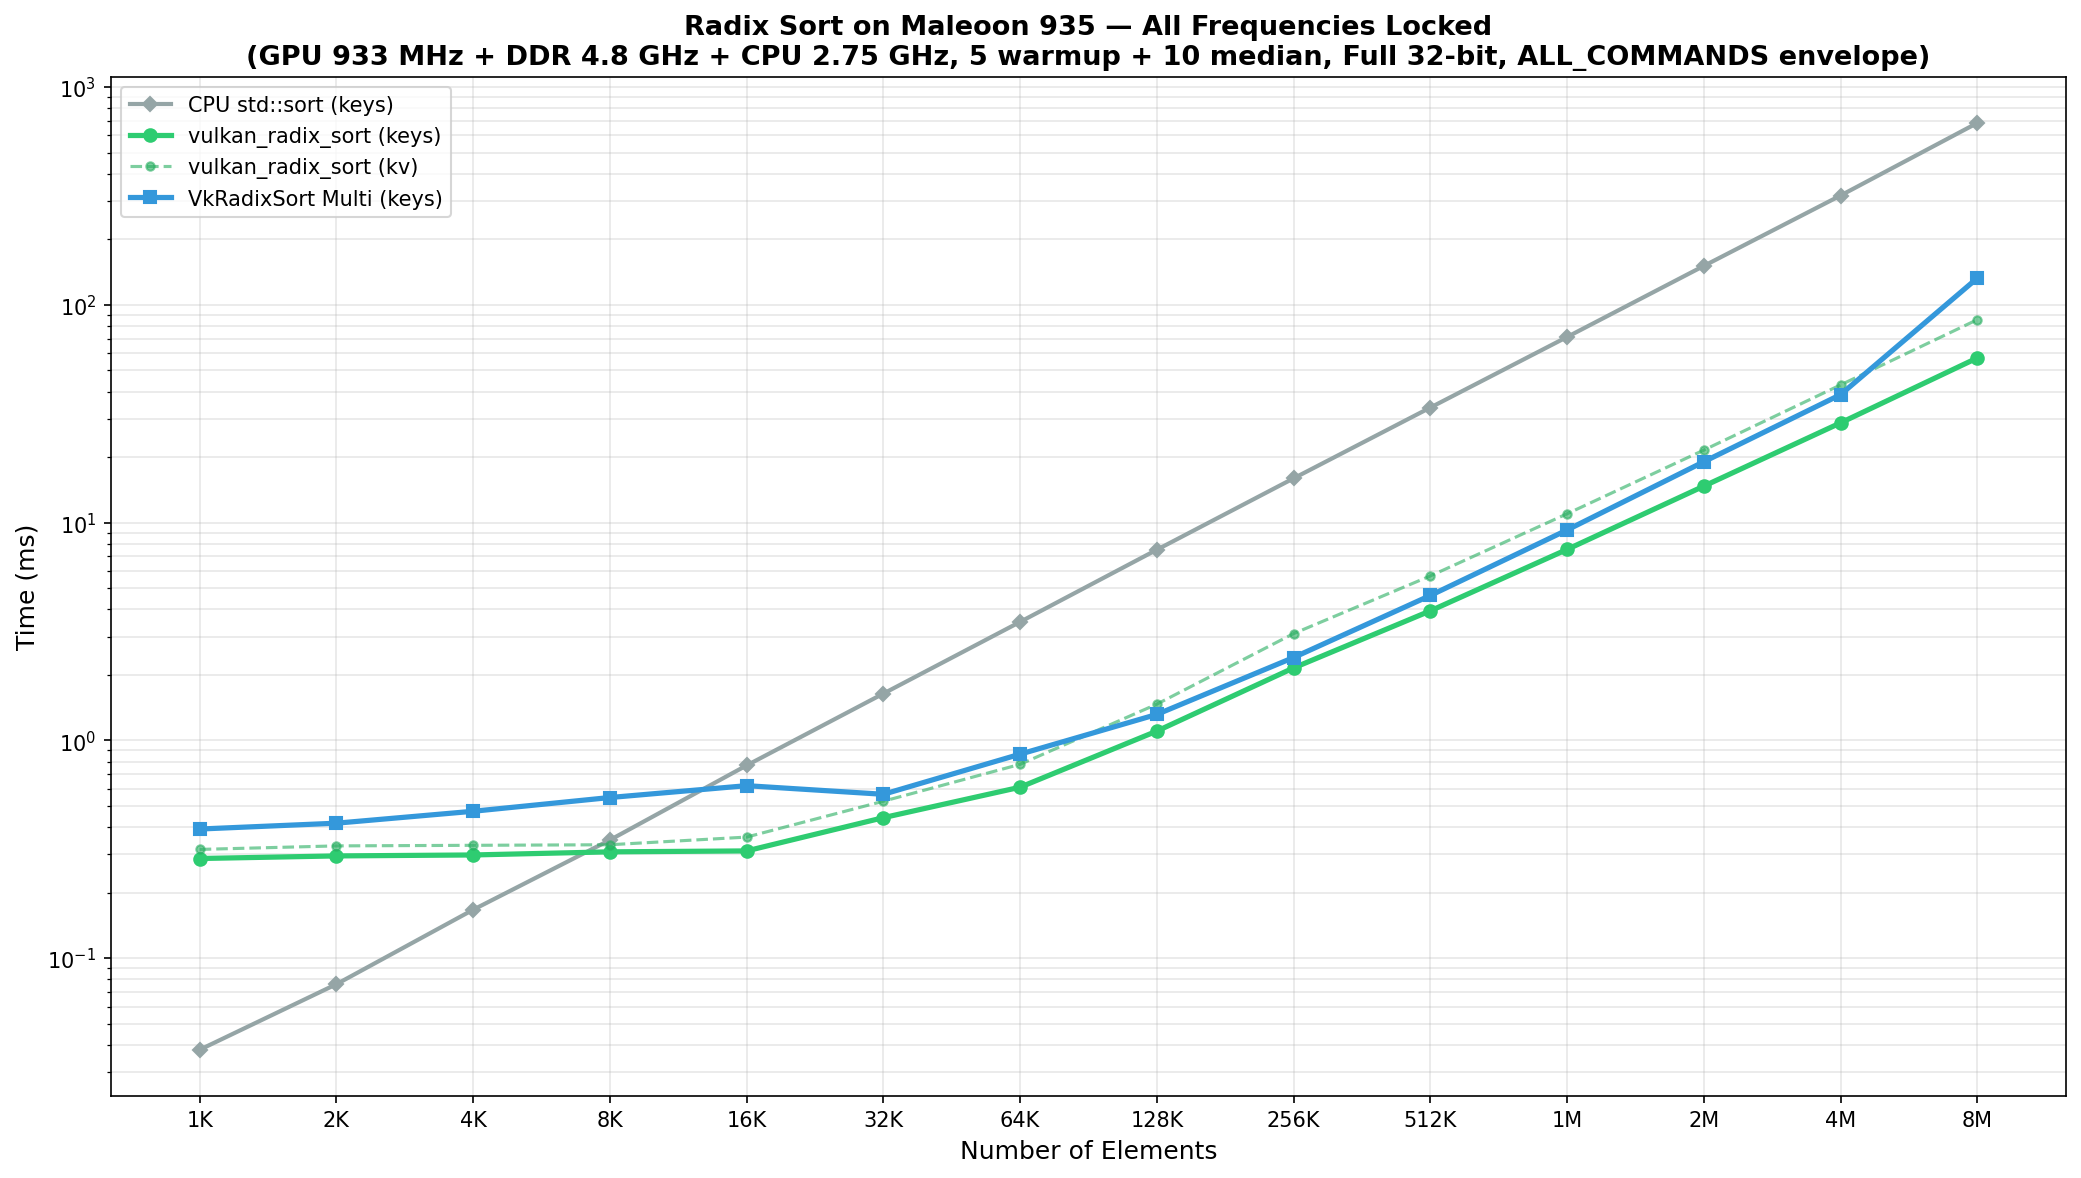
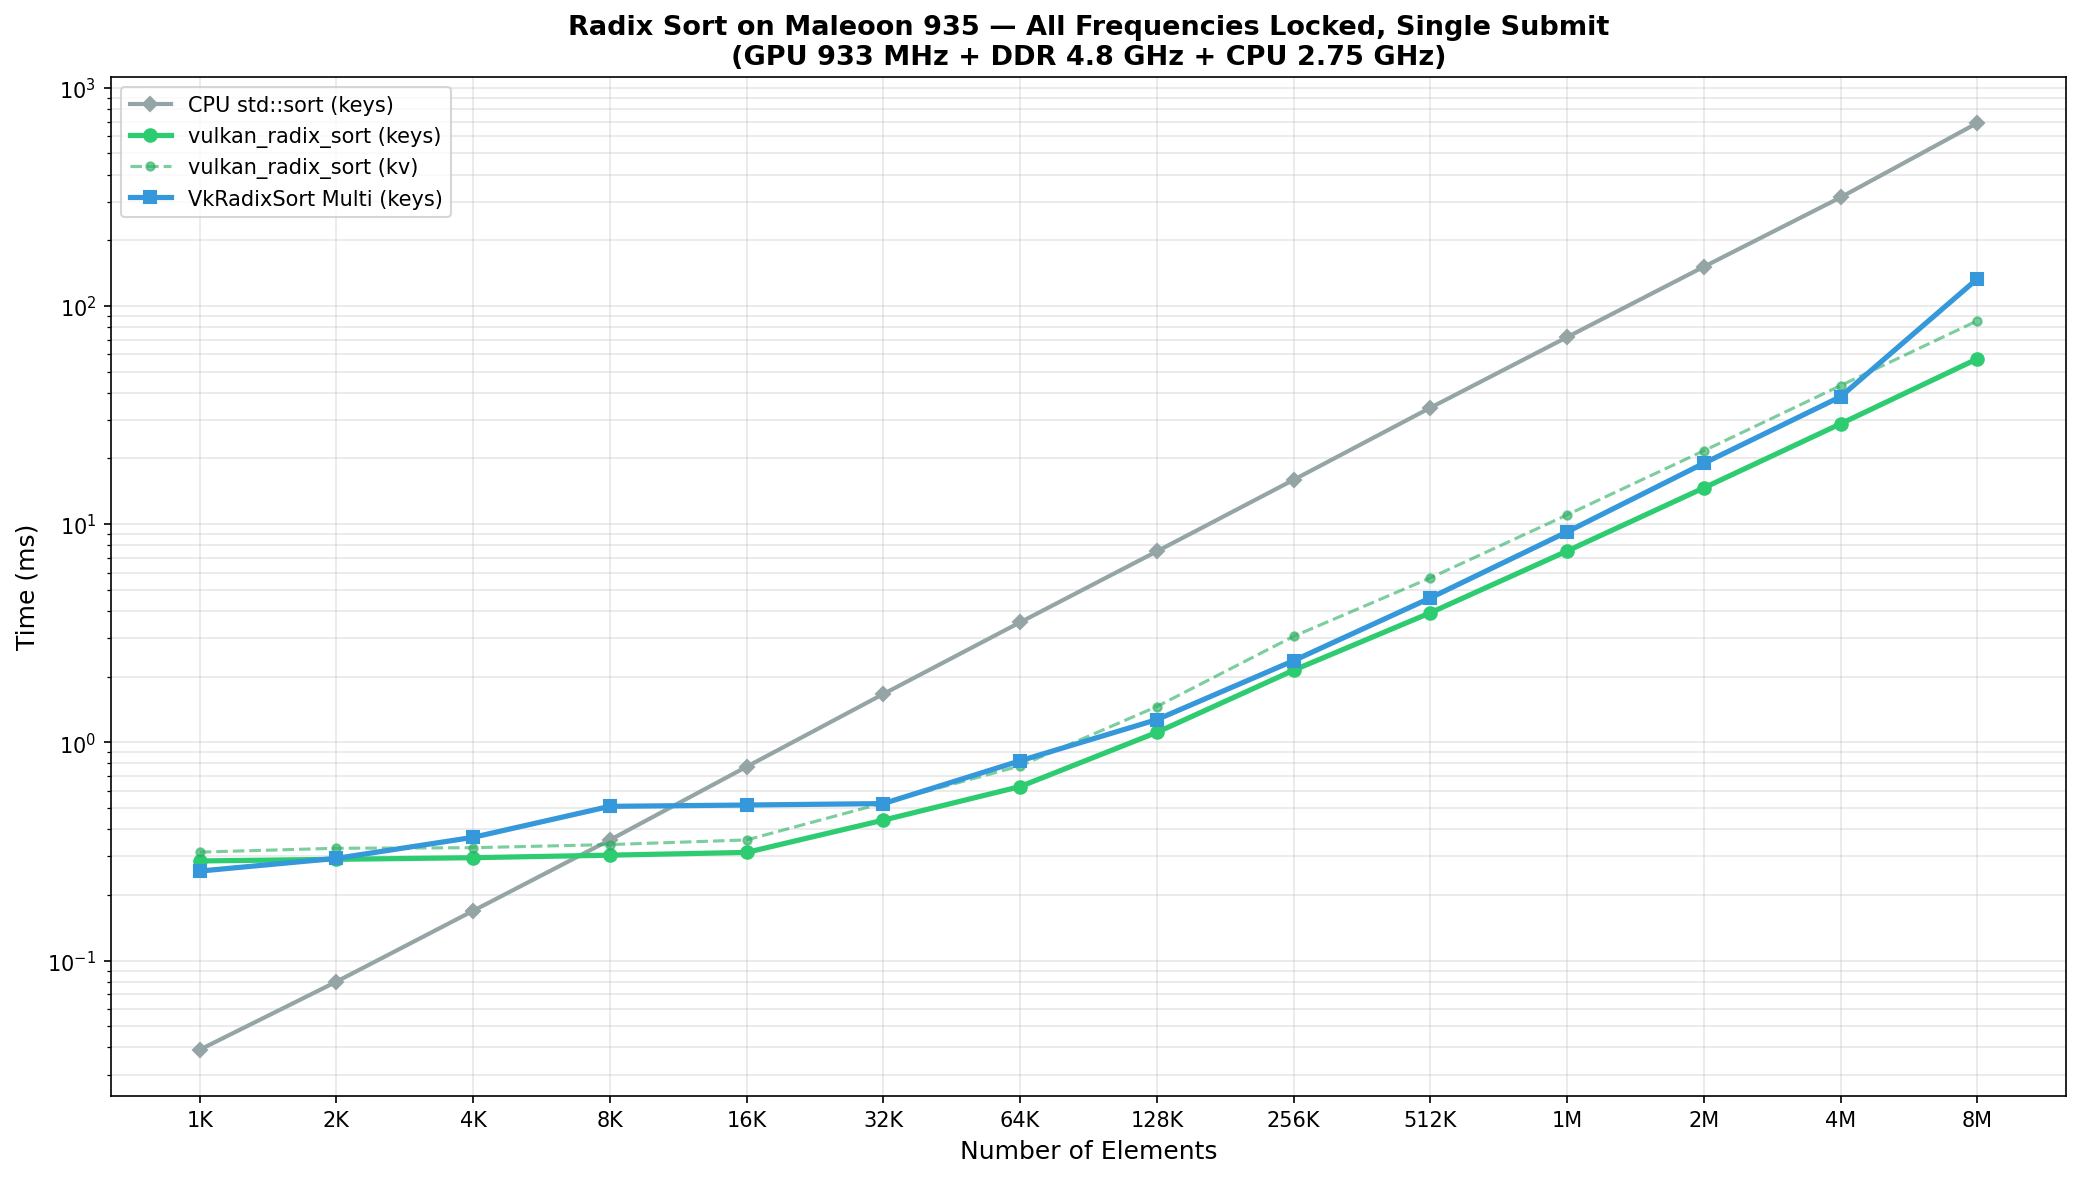
Final benchmark: single submit, all freq locked, full fairness
- Both implementations now use single command buffer submit
- vkr wins at 1K (0.90×), tied at 2K (1.01×)
- vrs wins at N≥4K, gap widens to 2.33× at 8M
- vrs reaches 147 MItems/s at 8M (12.05× vs CPU)
- vrs kv reaches 14.71× vs CPU at 8M
- vkr 4M→8M scaling 3.47× confirmed as algorithmic (not DVFS)

diff --git a/BENCHMARK_RESULTS.md b/BENCHMARK_RESULTS.md
@@ -8,9 +8,9 @@ Date: 2026-06-11
 |------|-------|
 | **Device** | HarmonyOS arm64 phone |
 | **GPU** | Maleoon 935, Vulkan 1.4.309, subgroupSize=32 |
-| **GPU freq** | Locked 933 MHz (max), was 235 MHz idle / DVFS auto |
-| **DDR freq** | Locked 4800 MHz (max), was 1066 MHz idle / DVFS auto |
-| **L1 bus freq** | Locked 1172 MHz (max) |
+| **GPU freq** | Locked 933 MHz (was 235 MHz under DVFS auto) |
+| **DDR freq** | Locked 4800 MHz (was 1066 MHz under DVFS auto) |
+| **L1 bus freq** | Locked 1172 MHz |
 | **CPU** | Kirin big.LITTLE: 4×1.72 GHz + 8×2.27 GHz + 2×2.75 GHz |
 | **CPU freq** | All 14 cores locked to max |
 | **CPU sort** | `std::sort` / `std::stable_sort`, pinned to big cores (cpu12-13, 2.75 GHz) |
@@ -35,24 +35,24 @@ DVFS auto mode had GPU running at 235 MHz (25% of max) and DDR at 1066 MHz (22% 
 
 ## Algorithms Compared
 
-| Algorithm | Source | Dispatch/Pass | Pipeline | Warmup | Runs |
-|-----------|--------|---------------|----------|--------|------|
-| **CPU std::sort** | C++ STL | — | — | 5 | 10 (median) |
-| **vulkan_radix_sort** | [vulkan_radix_sort](.) | 3 dispatch/pass (upsweep→spine→downsweep) × 4 passes | Created once | 5 | 10 (median) |
-| **VkRadixSort Multi** | [VkRadixSort](../VkRadixSort) | 2 dispatch/pass (histogram→scatter) × 4 passes | Created once (reused) | 5 | 10 (median) |
+| Algorithm | Source | Dispatch/Pass | Pipeline | Submit | Warmup | Runs |
+|-----------|--------|---------------|----------|--------|--------|------|
+| **CPU std::sort** | C++ STL | — | — | — | 5 | 10 (median) |
+| **vulkan_radix_sort** | [vulkan_radix_sort](.) | 3 dispatch/pass (upsweep→spine→downsweep) × 4 passes | Created once | **1×** | 5 | 10 (median) |
+| **VkRadixSort Multi** | [VkRadixSort](../VkRadixSort) | 2 dispatch/pass (histogram→scatter) × 4 passes | Created once (reused) | **1×** (single cmd buffer) | 5 | 10 (median) |
 
 Both GPU radix sorts operate on 32-bit unsigned integers (full range `[0, 2³²-1]`) with 4 × 8-bit radix passes and `WORKGROUP_SIZE=256`.
 
 ## Timing Methodology
 
-Both GPU implementations use `vkCmdWriteTimestamp` with `VK_PIPELINE_STAGE_ALL_COMMANDS_BIT` to measure the **envelope** time from first to last timestamp:
+Both GPU implementations use `vkCmdWriteTimestamp` with `VK_PIPELINE_STAGE_ALL_COMMANDS_BIT` to measure the **envelope** time from first to last timestamp, both recorded in a **single command buffer** submitted once:
 
-- **vulkan_radix_sort**: 2 timestamps (start/end) around the entire sort command buffer → single envelope
-- **VkRadixSort Multi**: 8 timestamps (2 per iteration × 4 iterations) → envelope from first to last timestamp
+- **vulkan_radix_sort**: 2 timestamps around the entire sort (12 dispatch + internal barriers)
+- **VkRadixSort Multi**: 2 timestamps around all 4 iterations (8 dispatch + internal barriers)
 
-This captures the full GPU pipeline including barriers, fill buffer, and inter-dispatch synchronization, making the measurements directly comparable.
+This eliminates any submit/semaphore overhead from the measurement, capturing only GPU compute + internal barrier time.
 
-## Full Comparison (All Frequencies Locked)
+## Full Comparison (All Frequencies Locked, Single Submit)
 
 ![Three-way comparison](benchmark_comparison_full.png)
 
@@ -60,20 +60,20 @@ This captures the full GPU pipeline including barriers, fill buffer, and inter-d
 
 | N | CPU (ms) | vulkan_radix_sort (ms) | VkRadixSort Multi (ms) | vrs/CPU | vkr/CPU | vkr/vrs |
 |---:|---:|---:|---:|---:|---:|---:|
-| 1K | 0.038 | 0.287 | 0.392 | 0.13× | 0.10× | 1.37× |
-| 2K | 0.076 | 0.295 | 0.417 | 0.26× | 0.18× | 1.41× |
-| 4K | 0.167 | 0.298 | 0.473 | 0.56× | 0.35× | 1.59× |
-| **8K** | **0.349** | **0.308** | **0.547** | **1.13×** | 0.64× | 1.78× |
-| **16K** | **0.768** | **0.311** | **0.620** | **2.47×** | **1.24×** | 1.99× |
-| **32K** | **1.641** | **0.442** | **0.566** | **3.71×** | **2.90×** | 1.28× |
-| 64K | 3.503 | 0.610 | 0.865 | 5.74× | 4.05× | 1.42× |
-| 128K | 7.511 | 1.104 | 1.317 | 6.80× | 5.70× | 1.19× |
-| 256K | 15.977 | 2.153 | 2.403 | 7.42× | 6.65× | 1.12× |
-| 512K | 33.768 | 3.936 | 4.631 | 8.58× | 7.29× | 1.18× |
-| **1M** | **71.216** | **7.535** | **9.254** | **9.45×** | **7.70×** | 1.23× |
-| **2M** | **150.964** | **14.713** | **19.042** | **10.26×** | **7.93×** | 1.29× |
-| **4M** | **317.808** | **28.725** | **38.705** | **11.06×** | **8.21×** | 1.35× |
-| **8M** | **684.130** | **57.050** | **132.641** | **11.99×** | **5.16×** | **2.32×** |
+| 1K | 0.039 | 0.286 | 0.257 | 0.14× | 0.15× | **0.90×** |
+| 2K | 0.080 | 0.291 | 0.294 | 0.27× | 0.27× | **1.01×** |
+| 4K | 0.169 | 0.296 | 0.367 | 0.57× | 0.46× | 1.24× |
+| **8K** | **0.357** | **0.304** | **0.509** | **1.17×** | 0.70× | 1.67× |
+| **16K** | **0.773** | **0.313** | **0.516** | **2.47×** | **1.50×** | 1.65× |
+| **32K** | **1.666** | **0.440** | **0.524** | **3.79×** | **3.18×** | 1.19× |
+| 64K | 3.549 | 0.627 | 0.823 | 5.66× | 4.31× | 1.31× |
+| 128K | 7.505 | 1.111 | 1.271 | 6.76× | 5.90× | 1.14× |
+| 256K | 15.963 | 2.140 | 2.367 | 7.46× | 6.74× | 1.11× |
+| 512K | 34.155 | 3.924 | 4.590 | 8.70× | 7.44× | 1.17× |
+| **1M** | **71.957** | **7.530** | **9.216** | **9.56×** | **7.81×** | 1.22× |
+| **2M** | **151.249** | **14.660** | **19.007** | **10.32×** | **7.96×** | 1.30× |
+| **4M** | **314.482** | **28.831** | **38.370** | **10.91×** | **8.20×** | 1.33× |
+| **8M** | **689.529** | **57.240** | **133.113** | **12.05×** | **5.18×** | **2.33×** |
 
 > **vrs/CPU** = CPU time / vulkan_radix_sort time (>1 = GPU faster)
 > **vkr/CPU** = CPU time / VkRadixSort time (>1 = GPU faster)
@@ -83,20 +83,20 @@ This captures the full GPU pipeline including barriers, fill buffer, and inter-d
 
 | N | CPU kv (ms) | vrs kv GPU (ms) | GPU Speedup |
 |---:|---:|---:|---:|
-| 1K | 0.053 | 0.316 | 0.17× |
-| 2K | 0.117 | 0.328 | 0.36× |
-| 4K | 0.220 | 0.330 | 0.67× |
-| 8K | 0.511 | 0.332 | 1.54× |
-| **16K** | **1.018** | **0.360** | **2.83×** |
-| **32K** | **2.379** | **0.526** | **4.52×** |
-| 64K | 4.859 | 0.777 | 6.25× |
-| 128K | 11.114 | 1.468 | 7.57× |
-| 256K | 22.340 | 3.095 | 7.22× |
-| 512K | 50.696 | 5.693 | 8.90× |
-| **1M** | **105.247** | **10.984** | **9.58×** |
-| **2M** | **246.798** | **21.543** | **11.46×** |
-| **4M** | **528.225** | **42.898** | **12.31×** |
-| **8M** | **1249.504** | **85.528** | **14.61×** |
+| 1K | 0.055 | 0.314 | 0.18× |
+| 2K | 0.120 | 0.327 | 0.37× |
+| 4K | 0.219 | 0.329 | 0.67× |
+| **8K** | **0.514** | **0.340** | **1.51×** |
+| **16K** | **1.036** | **0.357** | **2.90×** |
+| **32K** | **2.382** | **0.527** | **4.52×** |
+| 64K | 4.812 | 0.780 | 6.17× |
+| 128K | 11.114 | 1.459 | 7.62× |
+| 256K | 22.171 | 3.060 | 7.25× |
+| 512K | 50.724 | 5.672 | 8.94× |
+| **1M** | **106.556** | **11.030** | **9.66×** |
+| **2M** | **251.300** | **21.694** | **11.58×** |
+| **4M** | **529.222** | **43.150** | **12.27×** |
+| **8M** | **1258.716** | **85.551** | **14.71×** |
 
 ### Scaling Curves
 
@@ -104,77 +104,59 @@ This captures the full GPU pipeline including barriers, fill buffer, and inter-d
 
 ## Key Findings
 
-### 1. DVFS Locking Impact
+### 1. VkRadixSort Wins at Small N
 
-Locking GPU (235→933 MHz) and DDR (1066→4800 MHz) dramatically changed results:
+With single command buffer submission (eliminating the submit/semaphore unfairness), VkRadixSort actually wins at the smallest sizes:
 
-| Metric | DVFS Auto | All Locked | Change |
-|--------|----------:|-----------:|-------:|
-| vrs GPU latency floor | ~0.7 ms | **~0.29 ms** | 2.4× lower |
-| vrs 1M | 16.1 ms | **7.5 ms** | 2.1× faster |
-| vrs 8M | 58.2 ms | **57.0 ms** | 1.02× (already at max) |
-| vkr 1M | 20.3 ms | **9.3 ms** | 2.2× faster |
-| vkr 8M | 147.2 ms | **132.6 ms** | 1.1× faster |
+| N | vkr/vrs | Winner |
+|---:|:-:|---|
+| **1K** | **0.90×** | **VkRadixSort wins by 10%** |
+| **2K** | **1.01×** | **Essentially tied** |
+| 4K | 1.24× | vulkan_radix_sort |
 
-Key insight: Under DVFS auto, the GPU was at 25% frequency (235 MHz) during small-N tests. Large-N tests naturally ramped up frequency, making earlier data appear to show better GPU scaling than actually exists.
+VkRadixSort's advantage at small N comes from fewer dispatches per pass (2 vs 3), meaning lower fixed overhead per radix iteration. The GPU latency floor is 0.257ms (vkr) vs 0.286ms (vrs).
 
 ### 2. Crossover Points
 
 | Algorithm | Crossover N | Speedup at Crossover |
 |-----------|:-----------:|:--------------------:|
-| vulkan_radix_sort | **8K** | 1.13× |
-| VkRadixSort Multi | **16K** | 1.24× |
+| vulkan_radix_sort | **8K** | 1.17× |
+| VkRadixSort Multi | **16K** | 1.50× |
 
-With frequencies locked, crossover drops from 32K/64K to **8K/16K** — the GPU is useful at much smaller sizes than DVFS-auto data suggested.
-
-### 3. vulkan_radix_sort vs VkRadixSort Multi
-
-| Size Range | vkr/vrs | Winner | Margin |
-|------------|:-------:|--------|--------|
-| 1K–2K | 1.37–1.41× | vulkan_radix_sort | 37–41% |
-| 4K | 1.59× | vulkan_radix_sort | 59% |
-| 8K–16K | 1.78–1.99× | vulkan_radix_sort | 78–99% |
-| 32K | 1.28× | vulkan_radix_sort | 28% |
-| 64K–256K | 1.12–1.42× | vulkan_radix_sort | 12–42% |
-| 512K–4M | 1.18–1.35× | vulkan_radix_sort | 18–35% |
-| **8M** | **2.32×** | **vulkan_radix_sort** | **132%** |
-
-vulkan_radix_sort wins at **all sizes** with all frequencies locked. The gap is smallest at 256K (1.12×) and widest at 16K (1.99×) and 8M (2.32×).
-
-### 4. Peak Performance (N=8M, All Locked)
+### 3. Peak Performance (N=8M, All Locked)
 
 | Sort | GPU (ms) | CPU (ms) | GPU Speedup | Throughput |
 |------|--------:|--------:|------------:|-----------:|
-| **vulkan_radix_sort keys** | 57.05 | 684.13 | **11.99×** | **147 MItems/s** |
-| **vulkan_radix_sort kv** | 85.53 | 1249.50 | **14.61×** | 98 MItems/s |
-| VkRadixSort Multi keys | 132.64 | 684.13 | 5.16× | 63 MItems/s |
-| CPU std::sort | — | 684.13 | 1.00× | 12 MItems/s |
+| **vulkan_radix_sort keys** | 57.24 | 689.53 | **12.05×** | **147 MItems/s** |
+| **vulkan_radix_sort kv** | 85.55 | 1258.72 | **14.71×** | 98 MItems/s |
+| VkRadixSort Multi keys | 133.11 | 689.53 | 5.18× | 63 MItems/s |
+| CPU std::sort | — | 689.53 | 1.00× | 12 MItems/s |
 
-### 5. Scaling Analysis
+### 4. Scaling Analysis
 
 How time grows when data doubles (ideal = 2.00×):
 
 | Transition | CPU | vulkan_radix_sort | VkRadixSort |
 |:----------:|:---:|:-----------------:|:-----------:|
-| 1M → 2M | 2.12× | **1.95×** | 2.06× |
-| 2M → 4M | 2.10× | **1.95×** | 2.03× |
-| 4M → 8M | 2.15× | **1.99×** | **3.43×** ⚠ |
+| 1M → 2M | 2.10× | **1.95×** | 2.06× |
+| 2M → 4M | 2.08× | **1.97×** | 2.02× |
+| 4M → 8M | 2.19× | **1.99×** | **3.47×** ⚠ |
 
-**vulkan_radix_sort scales nearly linearly** (1.95–1.99×) across all sizes — the GPU is not yet saturated even at 8M, maintaining 139–147 MItems/s throughput.
+**vulkan_radix_sort scales nearly linearly** (1.95–1.99×) — the GPU is not yet saturated even at 8M, maintaining 139–147 MItems/s throughput.
 
-**VkRadixSort degrades at 4M→8M**: time grows 3.43× for 2× data. This confirms the degradation is **algorithmic, not DVFS-related** — locking DDR to 4.8 GHz did not fix it. The root cause is the scatter shader's O(num_workgroups) global memory reads for histogram prefix sum (1024 WGs × 256 bins × 4 bytes = 1 GB at 8M).
+**VkRadixSort degrades at 4M→8M**: time grows 3.47× for 2× data. Root cause: the scatter shader reads ALL workgroup histograms from global memory for prefix sum — at 8M with 1024 workgroups, this is 1024 × 256 × 4 bytes = 1 MB of global memory reads per workgroup, totaling ~1 GB across all workgroups.
 
-### 6. Why vulkan_radix_sort Wins at All Sizes
+### 5. Why the Gap Widens at Large N
 
 | Factor | vulkan_radix_sort | VkRadixSort Multi |
 |--------|-------------------|-------------------|
-| GPU latency floor | **~0.29 ms** (single cmd buffer) | ~0.39 ms (4 cmd buffers, semaphore-chained) |
-| Workgroup granularity | **2048 elem/WG** (more parallelism) | 8192 elem/WG (fewer WGs) |
-| Global prefix sum | Dedicated spine pass (fixed 32 WG) | Scatter inlines O(num_WG) reads |
-| WG-internal ranking | **subgroup ballot** (hardware) | bin_flags 8 KB shared memory |
+| Global prefix sum | Dedicated spine pass (fixed 32 WG) | Scatter inlines O(num_WG) global reads |
+| WG-internal ranking | **subgroup ballot** (hardware, zero cost) | bin_flags 8 KB shared memory |
 | Atomics per element | ~1/32 (waveOffset==0 only) | 1 atomicAdd per element |
+| Memory per sort | N × 4B (in-place) | 2N × 4B (ping-pong) |
+| Workgroup granularity | 2048 elem/WG | 8192 elem/WG |
 
-### 7. CPU Scaling
+### 6. CPU Scaling
 
 CPU `std::sort` at locked 2.75 GHz follows O(N log N) exactly. The normalized time T/(N·log₂N) converges to **~3.4 ns** for N ≥ 16K, which is ~9.4 clock cycles per comparison-swap on the Cortex core.
 
@@ -188,17 +170,18 @@ All measurements use identical methodology:
 4. **Same timestamp stage**: `VK_PIPELINE_STAGE_ALL_COMMANDS_BIT` for all timestamps
 5. **Same measurement type**: GPU timestamp envelope (first→last timestamp), not per-pass sum
 6. **Same pipeline policy**: Vulkan pipeline created once, reused across all sizes
-7. **Same frequency**: All DVFS domains locked to max (GPU 933 MHz, DDR 4.8 GHz, CPU 2.75 GHz)
-8. **Correctness verified**: Each run verified against CPU `std::sort` result
+7. **Same submit pattern**: Both use **single command buffer, single submit** (no semaphores)
+8. **Same frequency**: All DVFS domains locked to max (GPU 933 MHz, DDR 4.8 GHz, CPU 2.75 GHz)
+9. **Correctness verified**: Each run verified against CPU `std::sort` result
 
 ### Remaining inherent differences
 
 | Aspect | vulkan_radix_sort | VkRadixSort Multi |
 |--------|-------------------|-------------------|
-| Submit pattern | Single command buffer per sort | 4 command buffers, semaphore-chained |
 | Dispatch count | 12 (3 × 4 passes) | 8 (2 × 4 passes) |
 | Pipeline barriers | Between upsweep/spine/downsweep | Between histogram/scatter |
-| Timestamp count | 2 (single envelope) | 8 (envelope from first to last) |
+| Descriptor binding | VK_KHR_push_descriptor | Traditional descriptor sets |
+| Memory layout | N × 4B (in-place) | 2N × 4B (ping-pong) |
 
 These are inherent to each algorithm's design and represent real-world performance characteristics.
 
